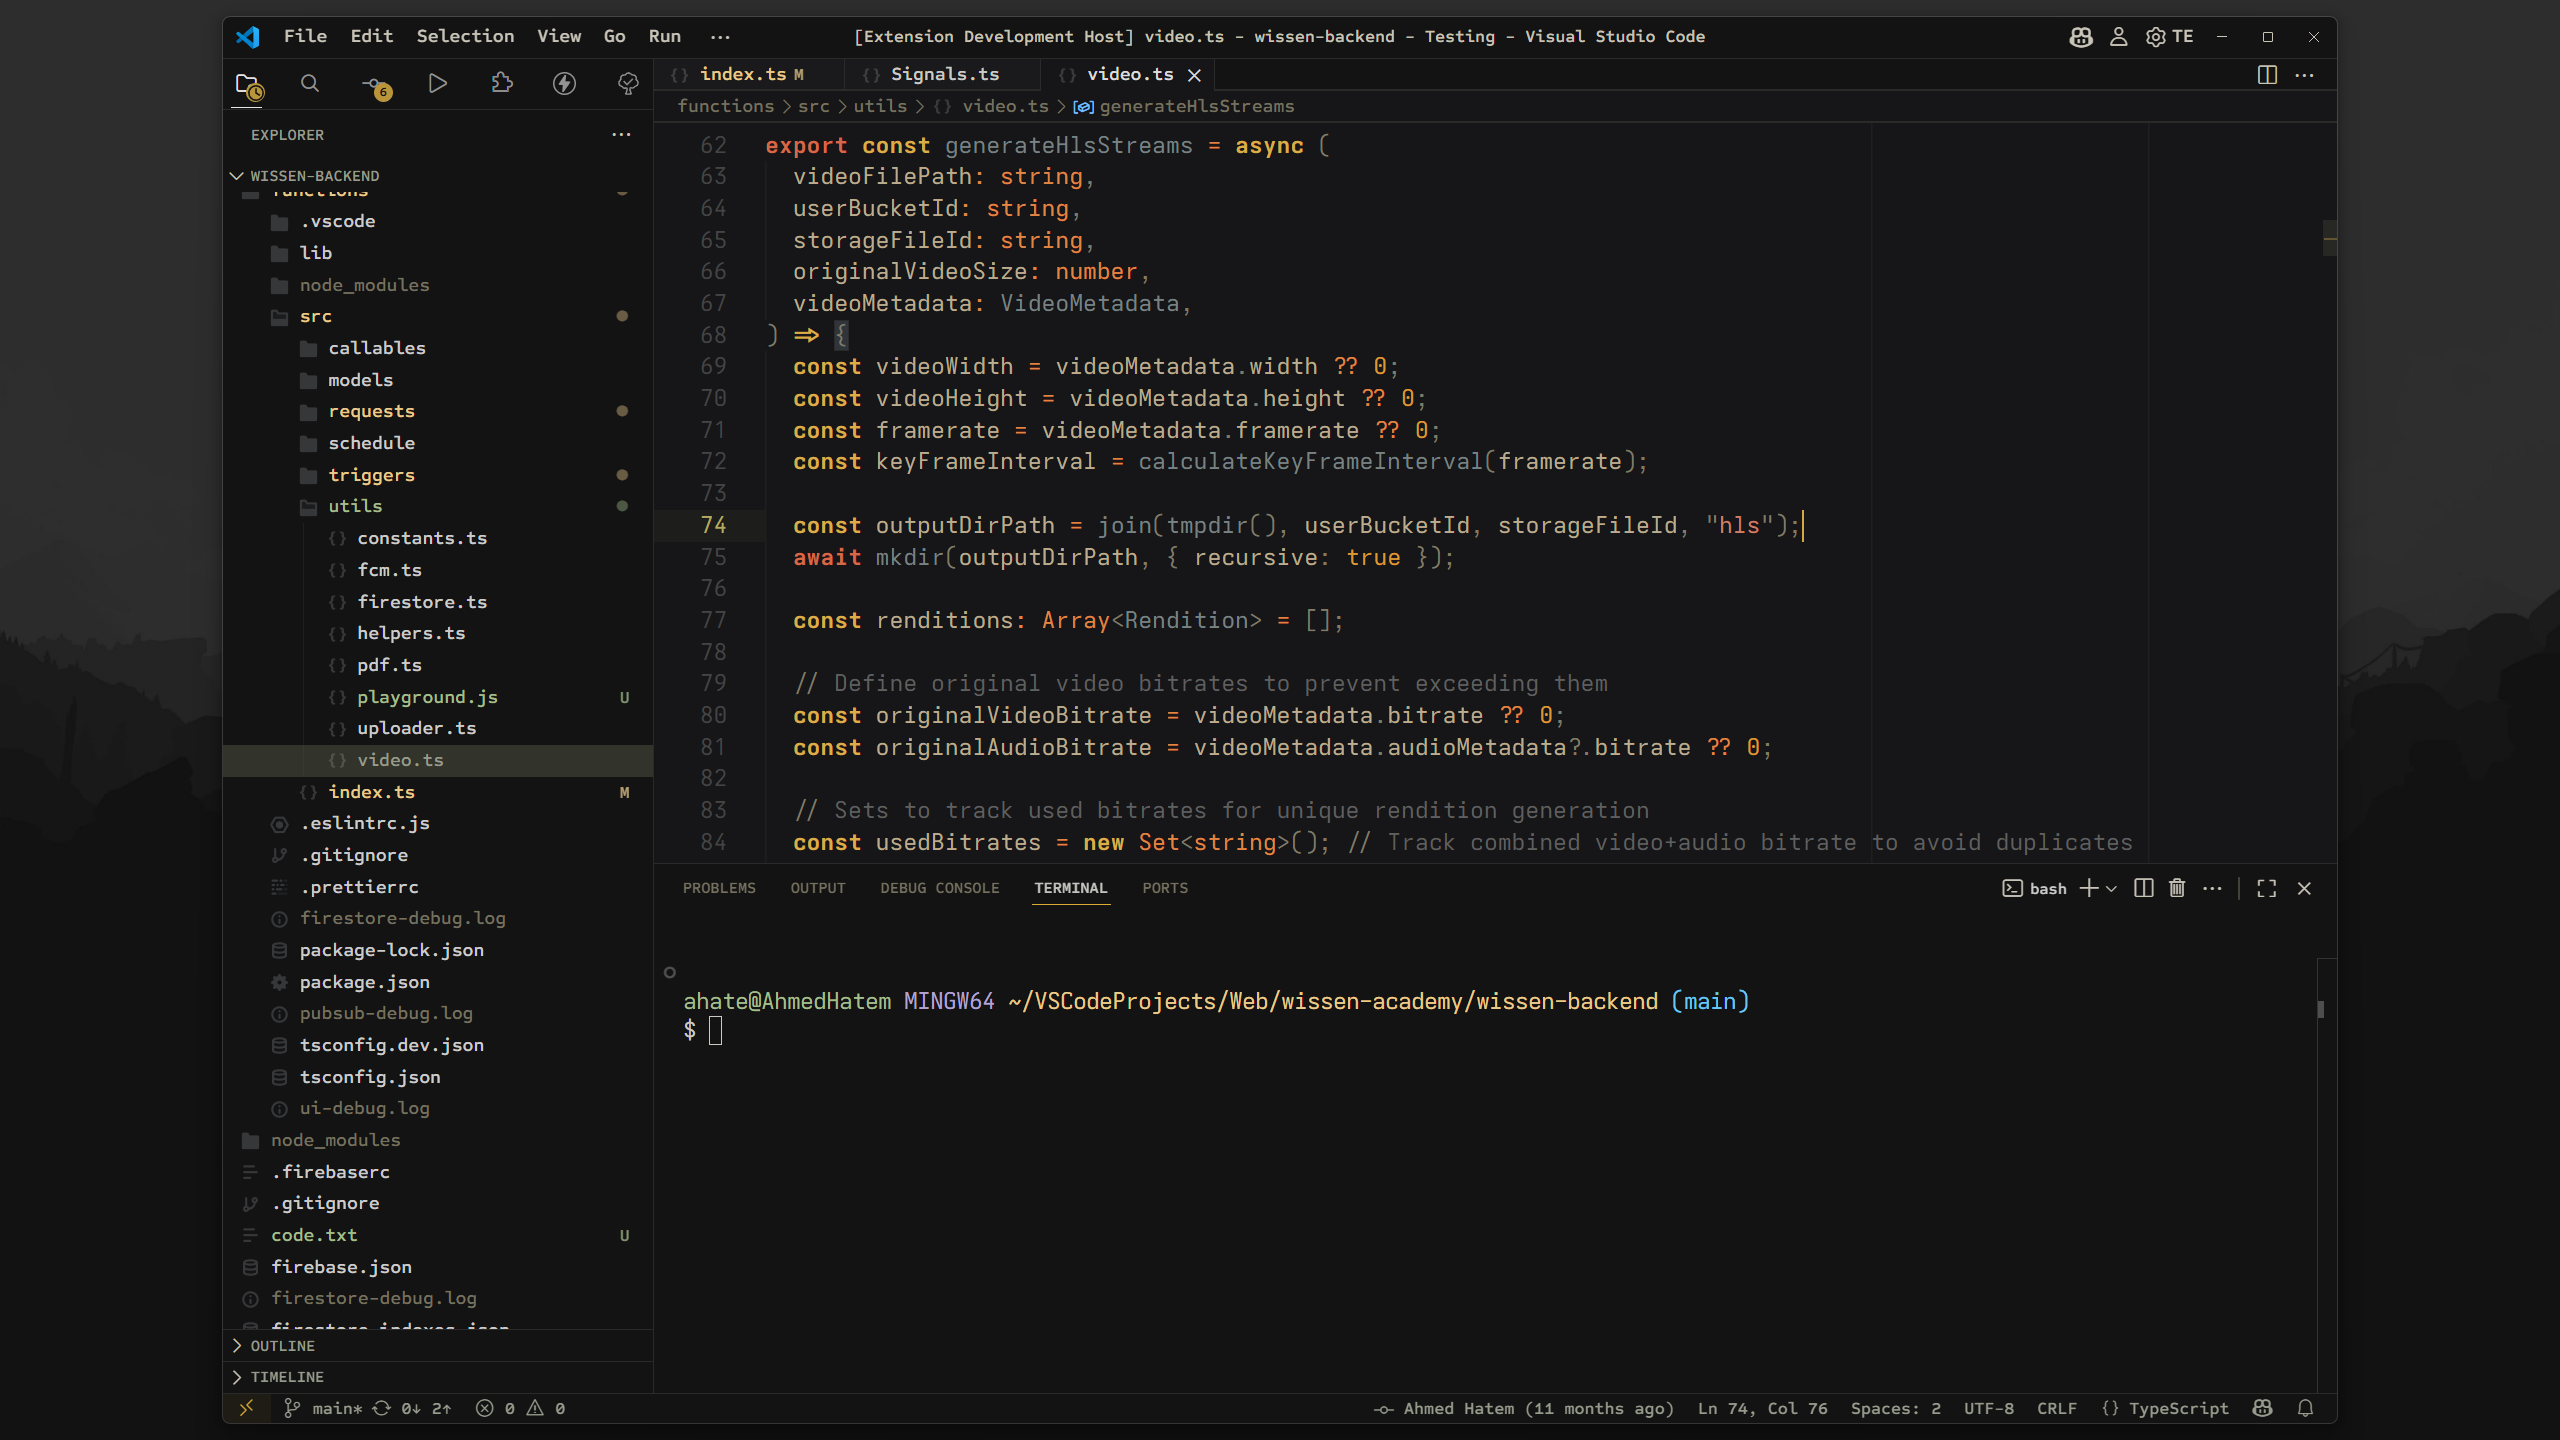
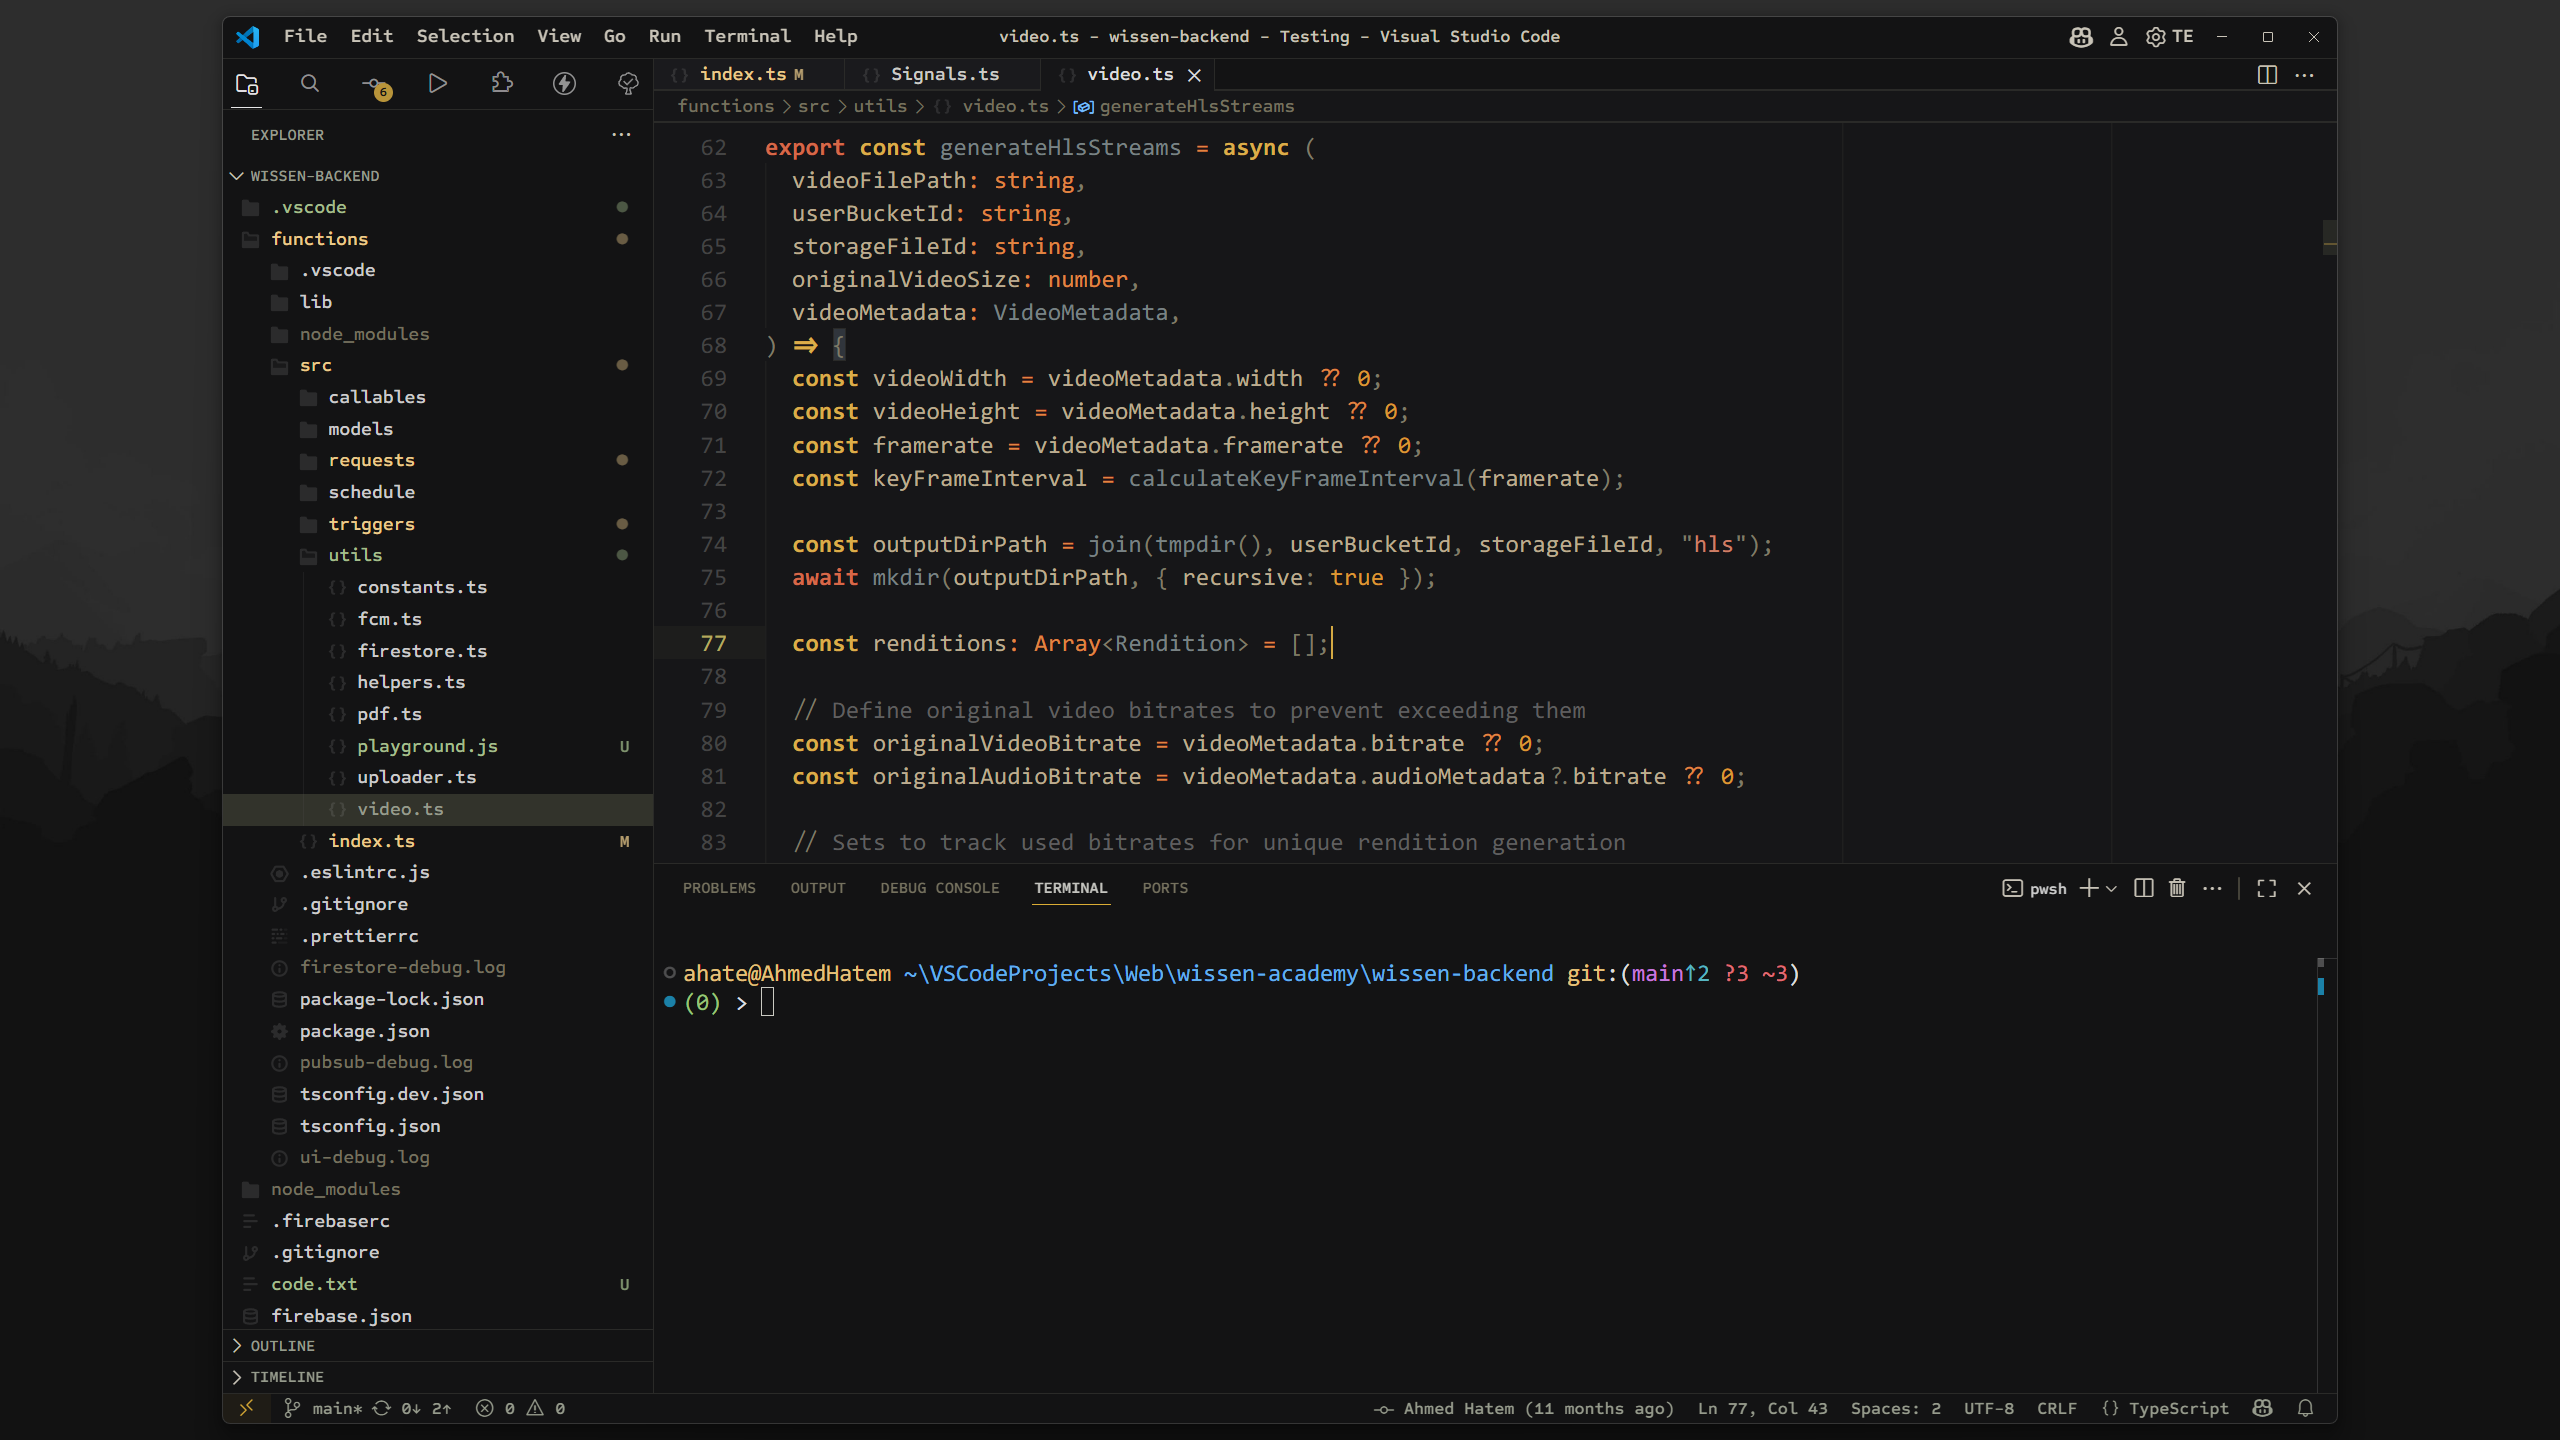
Docs: Update font to "Consolas" and refresh screenshots (#5)

diff --git a/README.md b/README.md
@@ -84,7 +84,7 @@ Next, paste these settings into your `settings.json` (`Code > Preferences > Sett
   "workbench.colorTheme": "Kintsugi Dark",
   "workbench.iconTheme": "quill-icons",
   "workbench.productIconTheme": "jetbrains-product-icon-theme",
-  "editor.fontFamily": "Hasklig", // Or Iosevka Expanded (both in screenshots)
+  "editor.fontFamily": "Hasklig", // Or Consolas (both in screenshots)
   "editor.fontLigatures": true,
   "editor.fontSize": 16,
   "editor.fontWeight": "500",
@@ -147,6 +147,7 @@ Add the following to your `settings.json`:
 <details>
   <summary><strong>Alternative Font Recommendations</strong></summary>
 
+- **[Consolas](https://github.com/somq/consolas-ligaturized)**: A classic monospaced font with ligatures for enhanced coding aesthetics.
 - **[Iosevka](https://typeof.net/Iosevka/)**: A highly customizable, monospaced font with a sleek, modern design and extensive ligature support.
 - **[M PLUS Code Latin Expanded](https://mplusfonts.github.io/)**: A clean, modern, monospaced font with excellent legibility.
 - **[Lilex](https://github.com/mishamyrt/Lilex)**: An extended IBM Plex Mono with ligatures.
@@ -161,7 +162,7 @@ This is the full configuration used in the screenshots:
 
 ```json
 {
-  "editor.fontFamily": "Hasklig", // Or Iosevka Expanded (both in screenshots)
+  "editor.fontFamily": "Hasklig", // Or Consolas (both in screenshots)
   "editor.fontSize": 16,
   "editor.fontWeight": "500",
   "workbench.colorTheme": "Kintsugi Dark Flared",
